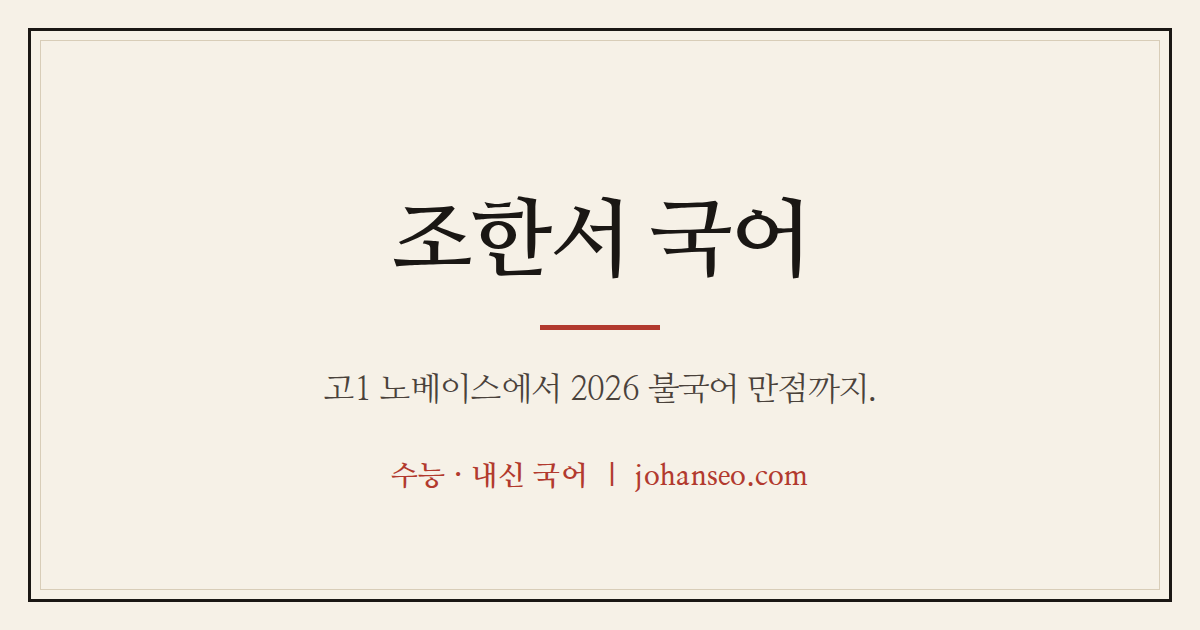
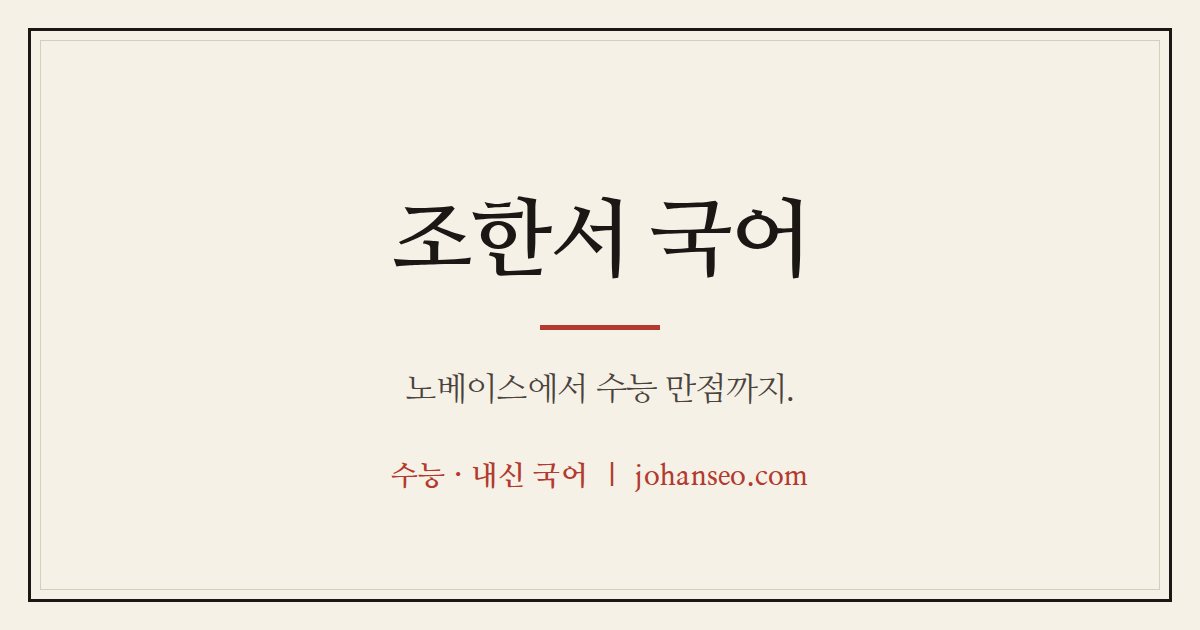
공유 카드 문구를 '노베이스에서 수능 만점까지.'로 (og.png v3 + 메타)

Changed region(s): [[0.2775, 0.573, 0.74, 0.6635]]

diff --git a/index.html b/index.html
@@ -6,11 +6,11 @@
   <title>조한서 국어</title>
   <meta property="og:type" content="website" />
   <meta property="og:title" content="조한서 국어" />
-  <meta property="og:description" content="고1 노베이스에서 2026 불국어 만점까지." />
-  <meta property="og:image" content="https://johanseo.com/og.png?v=2" />
+  <meta property="og:description" content="노베이스에서 수능 만점까지." />
+  <meta property="og:image" content="https://johanseo.com/og.png?v=3" />
   <meta property="og:url" content="https://johanseo.com/" />
 
-  <meta name="description" content="고1 노베이스에서 2026 불국어 만점까지. 수능·내신 국어 밀착 지도." />
+  <meta name="description" content="노베이스에서 수능 만점까지. 수능·내신 국어 밀착 지도." />
   <link rel="icon" type="image/png" href="seal.png" />
   <link rel="preconnect" href="https://fonts.googleapis.com" />
   <link rel="preconnect" href="https://fonts.gstatic.com" crossorigin />
